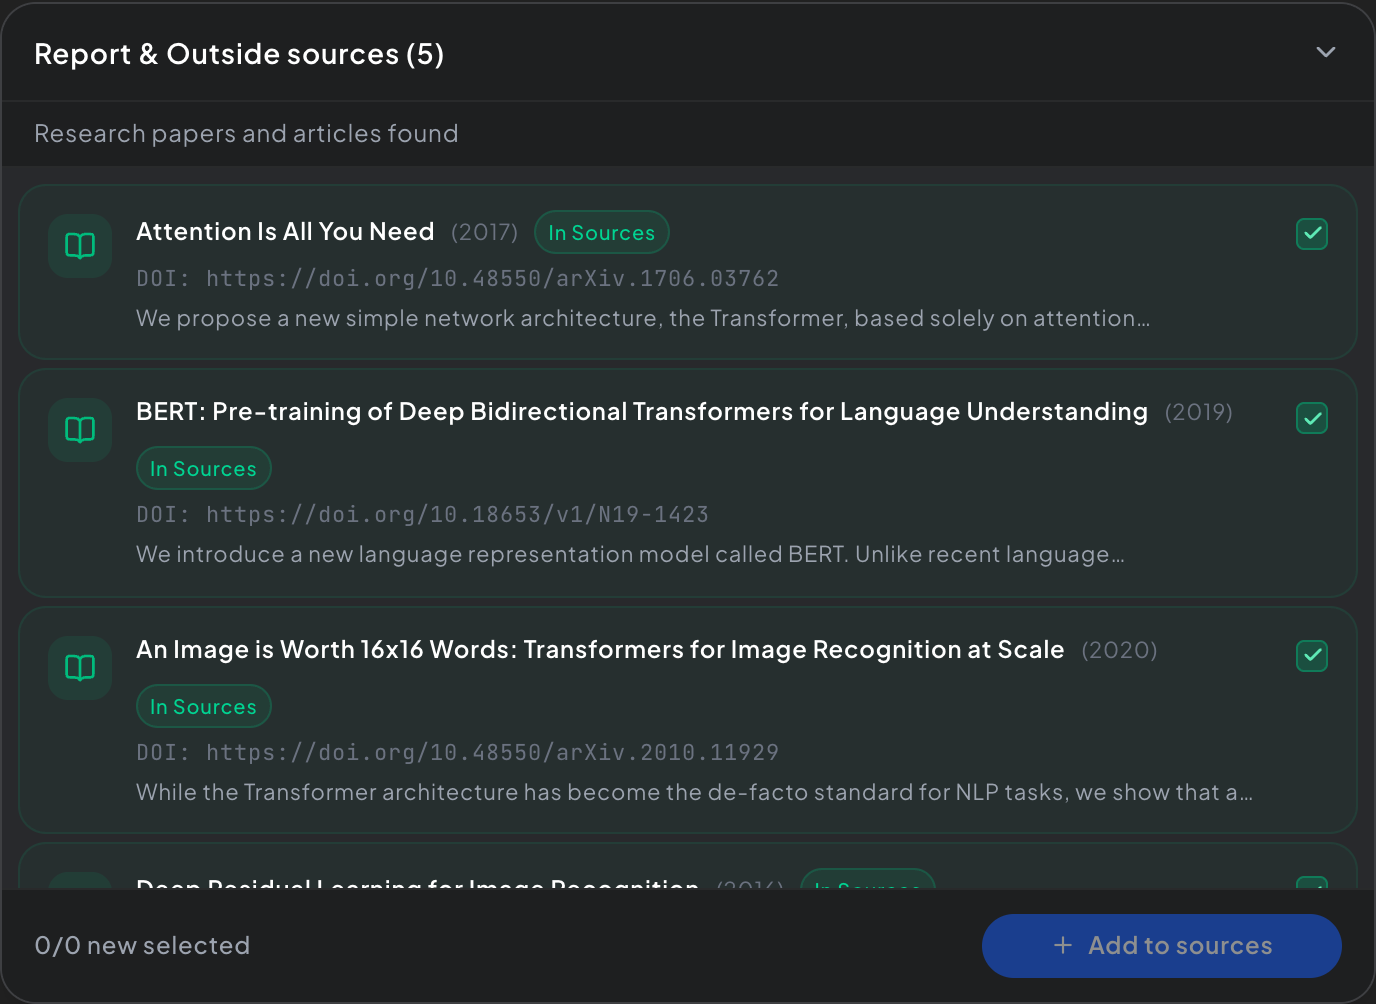
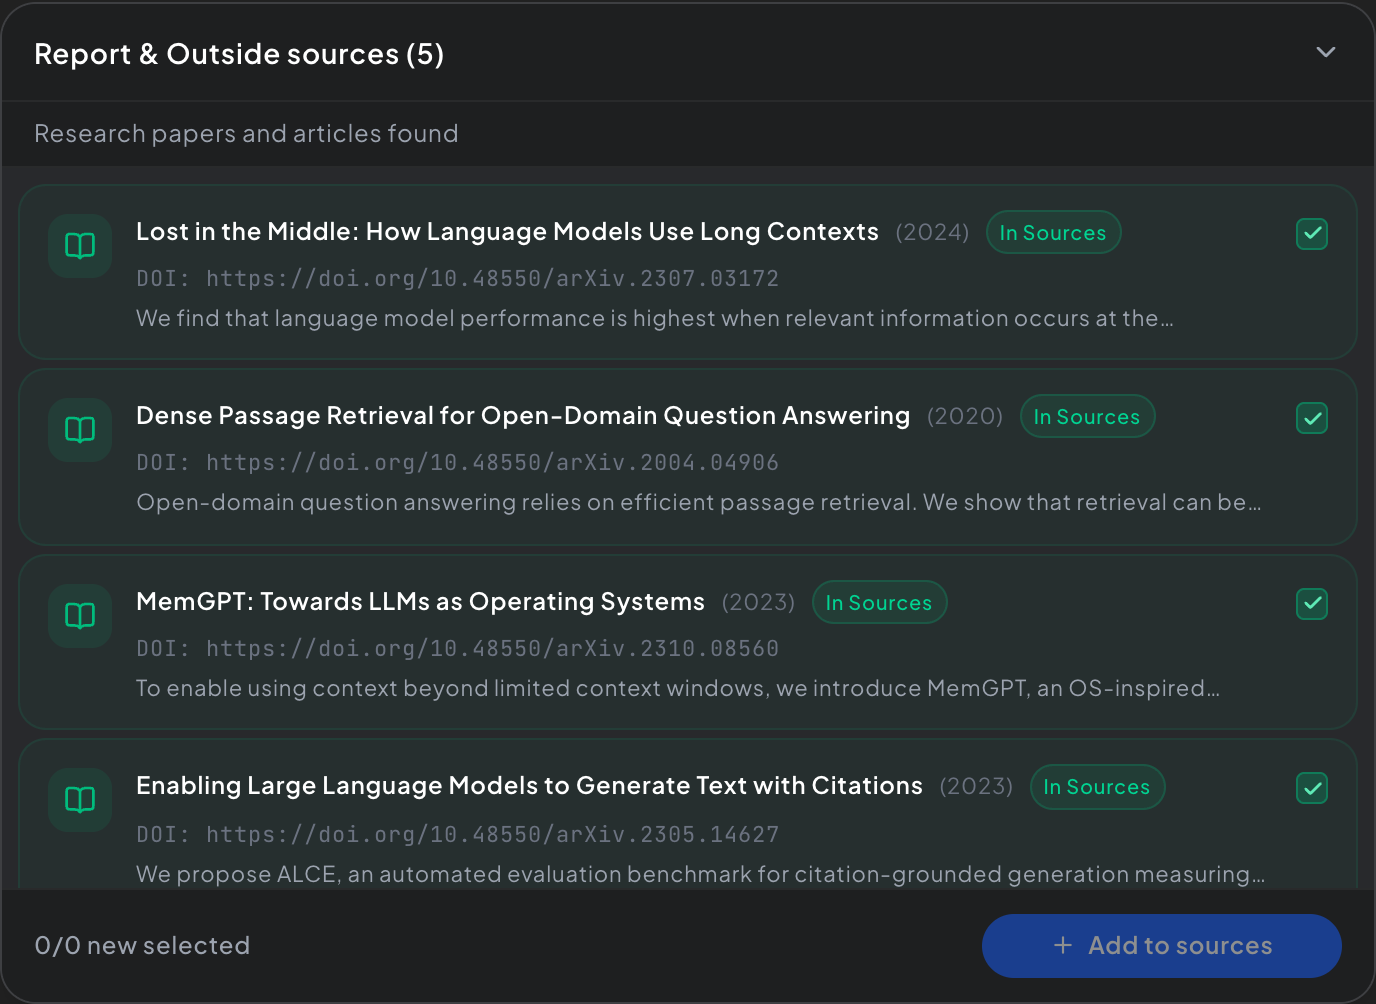
docs(readme): Dogfooding Showcase with Stanford Lost in the Middle & Curated Foundations (#12)

diff --git a/README.md b/README.md
@@ -33,11 +33,15 @@ Imported and uploaded sources appear in the right-hand **Sources** panel with pe
 * **Verified Paper vs. Local Manuscript:** Authentic journal publications retain official publisher metadata, while local documents (such as theses, student projects, or CVs) are cleanly cataloged without artificial journal labels.
 * **Bulk ZIP Export:** Download original documents individually or bundle multiple selected sources into a single organized ZIP package.
 
+![Deterministic Source Management](docs/assets/sources-sorting-parity.png)
+
 ### 3. Integrated Document Reader & Targeted Focus
 Inspect full manuscripts directly within the workspace:
 * **Dual-View Inspection:** Stream authentic publication PDFs directly in the browser or switch to extracted full-text for citation navigation.
 * **Ask About This Document:** Focus queries exclusively on a single source with one click, bypassing manual workspace deselection.
 * **Multi-Format Citation Generator:** Export clean, verified academic citations across APA 7th, IEEE, Harvard, MLA 9th, Chicago, BibTeX, and RIS.
+
+![Integrated Document Reader](docs/assets/document-reader-modes.png)
 
 ### 4. Grounded Synthesis & Bidirectional Citation Highlighting
 Synthesize multiple papers into comparative review matrices. Each finding is tagged with traceable citation badges (`[1]`, `[2]`). Clicking any citation opens the document reader and automatically scrolls to highlight the exact supporting sentence in the source text:
